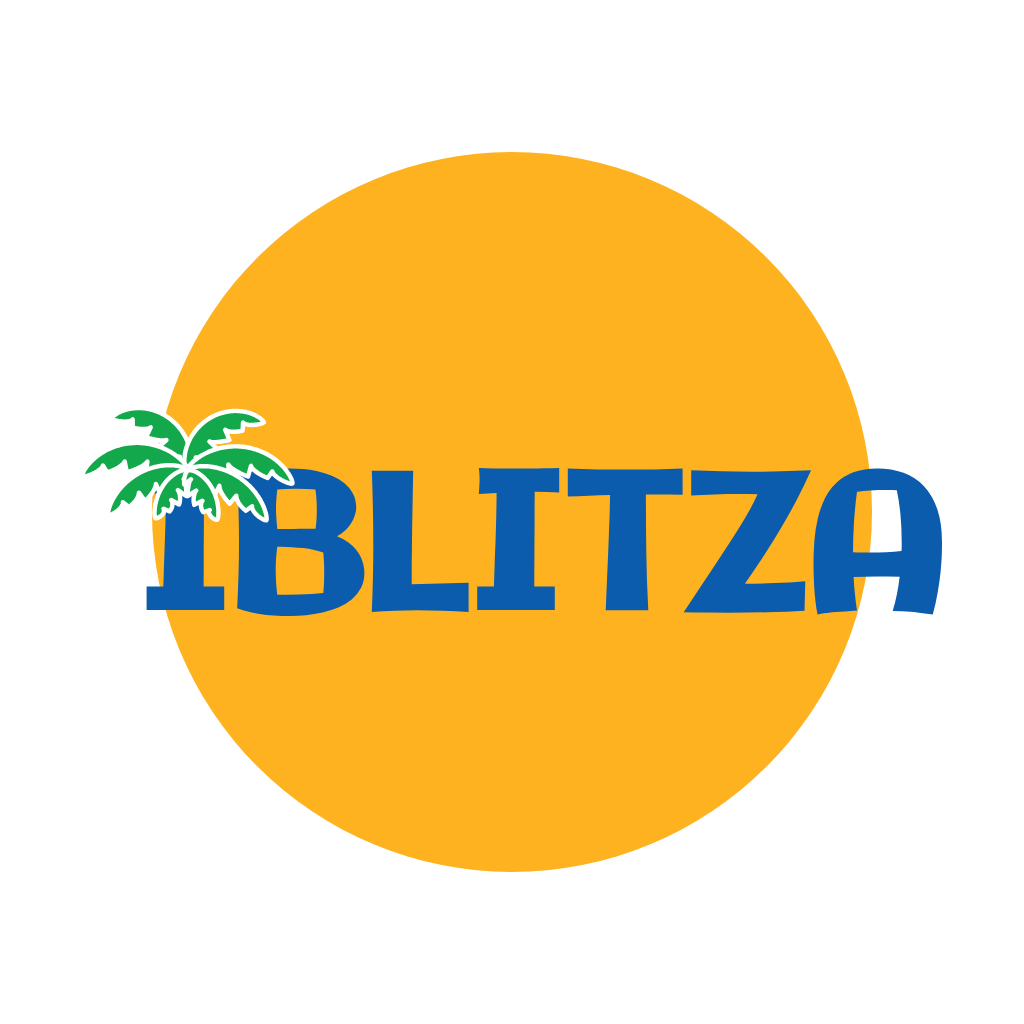
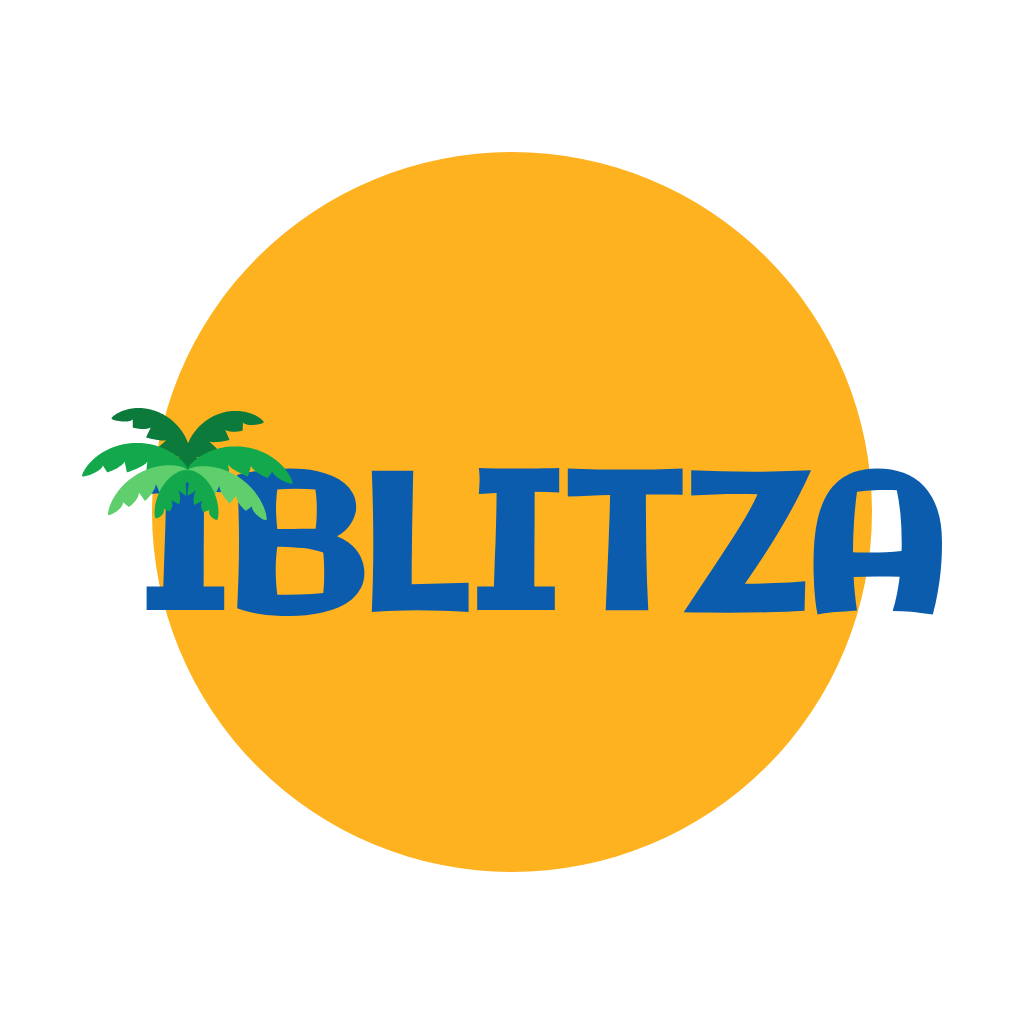
Palm in three flat greens, no white lines between fronds
Back fronds dark, spreading ones mid, drooping ones light; the fronds
read apart by colour alone.

Claude-Session: https://claude.ai/code/session_01J2mtdas9J5grVDqkEo4DN3

Changed region(s): [[0.0938, 0.375, 0.2812, 0.5312]]

diff --git a/brand/make_logo.py b/brand/make_logo.py
@@ -3,7 +3,7 @@
 The I is a palm tree: the letter is the trunk, with a few wavy rings cut into it, and a crown
 of fronds sits on top of it. The word sits across a warm sun disc and breaks out of it.
 
-Colour (flat, on white): blue lettering, green palm, warm orange-yellow sun. One colour: the sun is solid ink and
+Colour (flat, on white): blue lettering, palm in three greens, warm orange-yellow sun. One colour: the sun is solid ink and
 whatever of the word and palm falls on it is knocked out to the paper colour, so the mark
 holds up printed in black only (or white only on a dark ground).
 
@@ -28,8 +28,8 @@ FONT = TTFont(ARGS.font)
 
 BLUE = '#0b5cad'                     # lettering: Mediterranean blue
 SUN = '#ffb21f'                      # the sun disc
-GREEN = '#13a84b'                    # the palm
-WHITE = '#ffffff'                    # background; also the thin lines between fronds
+GREENS = ['#0b7a3b', '#13a84b', '#5fcf6e']   # palm, flat: back, middle and front fronds
+WHITE = '#ffffff'                    # background
 
 
 # ---- lettering ---------------------------------------------------------------------------
@@ -153,7 +153,7 @@ def frond(x, y, L, a0, bend, W, teeth=4):
 FRONDS = [
     (-12, -100, 0.92, .17, 0), (14, 100, 0.90, .17, 0),
     (-58, -80, 1.00, .17, 1), (62, 80, 1.00, .17, 1),
-    (-95, -55, 0.82, .16, 0), (98, 55, 0.84, .16, 0),
+    (-95, -55, 0.82, .16, 2), (98, 55, 0.84, .16, 2),
     (-135, -25, 0.50, .14, 1), (138, 25, 0.50, .14, 1),
 ]
 
@@ -210,15 +210,12 @@ def disc(cx, cy, r, n=180):
 
 
 def colour(word, fronds, cap, sun=None):
-    """Full colour, flat: optional sun disc (cx, cy, r), blue word, green palm with thin white
-    lines between the fronds."""
-    sw = cap * 0.03
+    """Full colour, flat: optional sun disc (cx, cy, r), blue word, palm in three flat greens."""
     out = []
     if sun:
         out.append(f'<circle cx="{sun[0]}" cy="{sun[1]}" r="{sun[2]}" fill="{SUN}"/>')
     out.append(f'<path d="{_d(word)}" fill="{BLUE}"/>')
-    out += [f'<path d="{_d(f)}" fill="{GREEN}" stroke="{WHITE}" stroke-width="{sw:.1f}" stroke-linejoin="round"/>'
-            for f, _ in fronds]
+    out += [f'<path d="{_d(f)}" fill="{GREENS[shade]}"/>' for f, shade in fronds]
     return '', ''.join(out)
 
 

diff --git a/brand/README.md b/brand/README.md
@@ -20,8 +20,8 @@ any size.
 knocked out to the paper colour, so the mark works printed in black only, or white only on a
 dark ground.
 
-Colours, all flat on white: blue `#0b5cad` (lettering), sun `#ffb21f`, palm `#13a84b` (fronds
-separated by thin white lines).
+Colours, all flat on white: blue `#0b5cad` (lettering), sun `#ffb21f`, palm in three greens
+`#0b7a3b` / `#13a84b` / `#5fcf6e` (back to front).
 Lettering: Galindo (SIL Open Font License, see `OFL-Galindo.txt`).
 
 Regenerate with `pip install fonttools brotli skia-pathops && python3 brand/make_logo.py`
